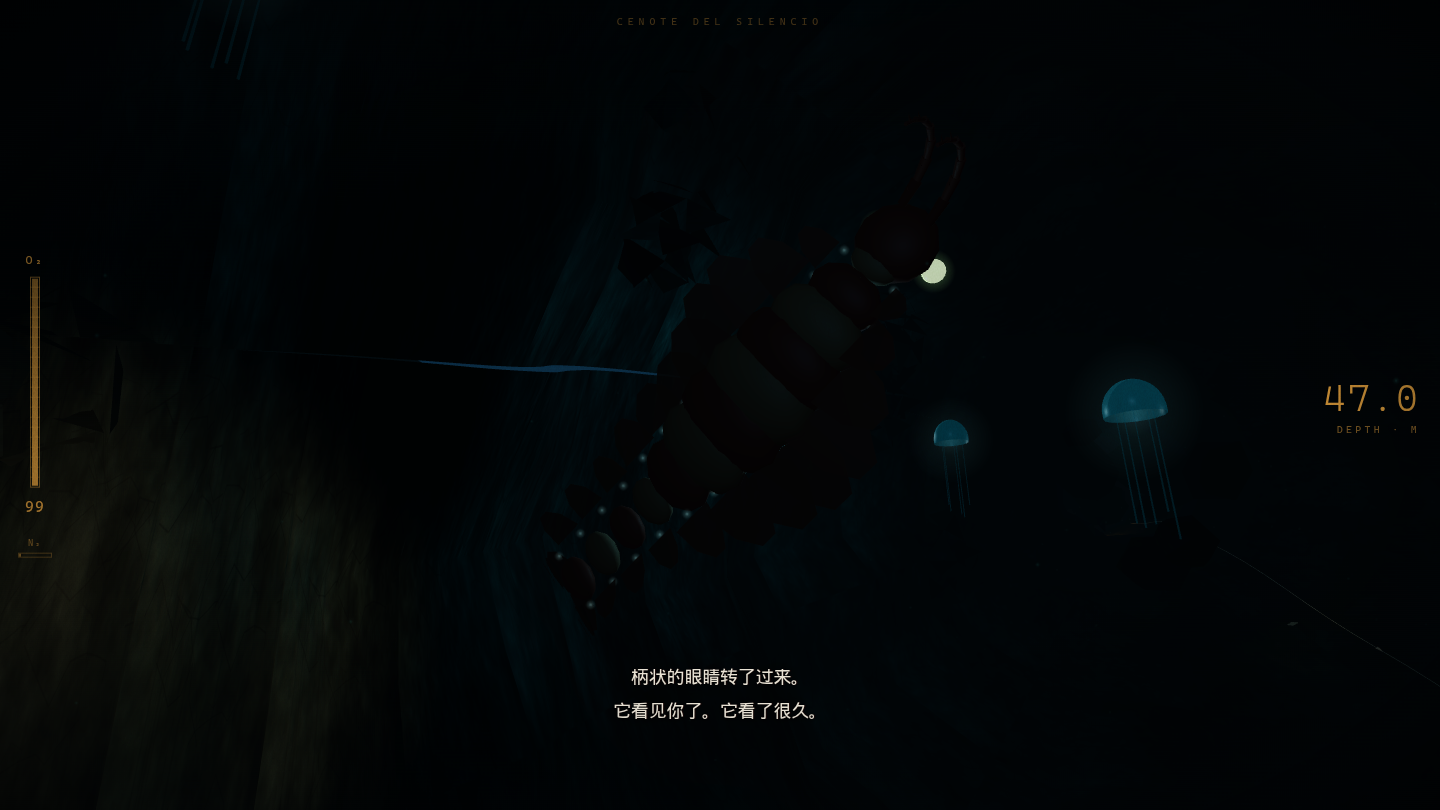
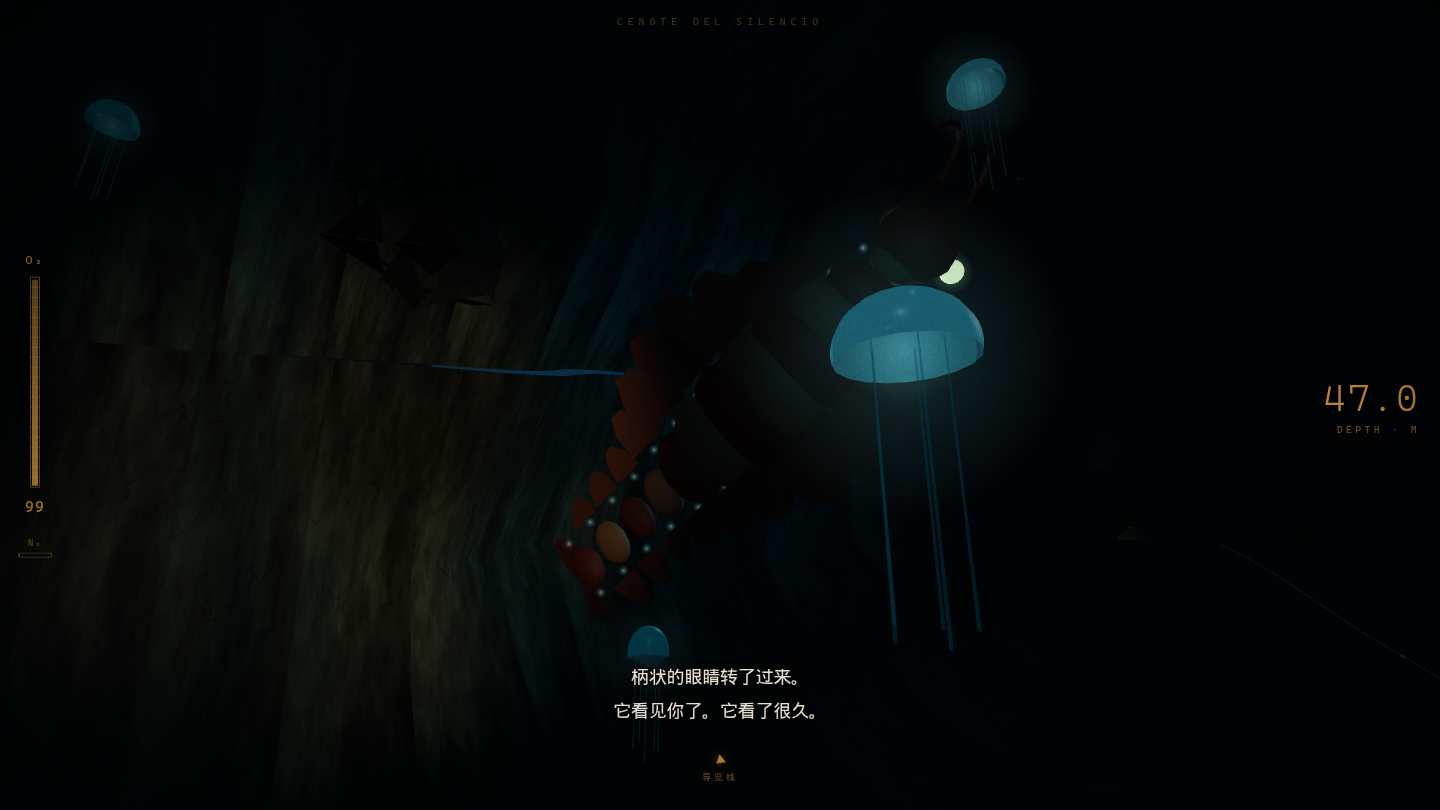
feat(LoopE): 剧情事件——搅浑水silt-out(白雾22s+罗盘提示)、错绳支线死结写字板、两块矛盾「第1天」写字板、气瓶数目谜团、可疑无线电(M口误/不该知道的沉船/谁的规矩)、被用空又摆回的气瓶；剧情节点按分区重布(下潜+回程)；调试雾snap

diff --git a/src/game/Story.ts b/src/game/Story.ts
@@ -2,8 +2,15 @@ import type { Cave, CaveProp } from './Cave';
 import type * as THREE from 'three';
 
 /**
- * 叙事触发系统。文本与节奏对应 docs/GAME_DESIGN.md §2.3。
- * radio/env 按样条进度触发；slate/tank 按 3D 距离触发。
+ * 叙事触发系统（docs/GAME_DESIGN.md §6「人为搞砸」）。
+ * radio/env 按主脉进度触发（下潜与回程共用 mainT 递增）；slate/tank 按 3D 距离触发。
+ *
+ * 五条破坏线索（全程不点破凶手）：
+ * ① 搅浑水 silt-out（沉船区，能见度骤降 22s）
+ * ② 错绳：白线支线以死结收尾（S2），箭头指向洞内（throat env）
+ * ③ 矛盾写字板：两块「第 1 天」（S1 vs S6）；气瓶数目对不上（S3）
+ * ④ 可疑无线电：M 的口误（"比上次平稳多了"）、不该知道的沉船
+ * ⑤ 空气瓶被人用空又摆回原位（塌方区 T3）
  */
 
 export interface StoryContext {
@@ -13,6 +20,8 @@ export interface StoryContext {
   tank(prop: CaveProp): void;
   silenceBegins(): void;
   scare(): void;
+  /** 搅浑水：能见度骤降 seconds 秒 */
+  siltOut(seconds: number): void;
 }
 
 interface FlowNode {
@@ -21,13 +30,48 @@ interface FlowNode {
   run(ctx: StoryContext): void;
 }
 
-const SLATE_TEXTS: Record<number, string> = {
-  1: '第 1 天 —— 主线布设完成。\n洞比测绘图上深。水像玻璃。\n美极了。\n—— L.C.',
-  2: '这条白线不是我的。\n我的线是蓝的。\n箭头全部指向里面。\n谁会把箭头指向里面？',
-  3: '灯在学我。\n我关灯，它也关。\n我数到三再开——\n它已经开了。',
-  4: '别数气泡。\n数到第七个，它就到了。',
-  5: '别相信光。它在学我们。\n\n—— 这一行的字迹，你认得。\n是你的。',
-};
+/** 写字板文本（含互相矛盾对：S1↔S6） */
+const SLATES: { key: string; text: string }[] = [
+  {
+    key: 's1-day1',
+    text: '第 1 天 —— 主线布设完成。\n洞比测绘图上深。水像玻璃。\n美极了。\n—— L.C.',
+  },
+  {
+    key: 's2-fakeline',
+    text: '这条白线不是我的线。我的线是蓝的。\n白线在这里打了死结。\n打结的人知道会有人跟着它。\n回头。现在。',
+  },
+  {
+    key: 's3-tanks',
+    text: '第 3 天 —— 备用瓶少了一支。我数了三遍。\nM 说是我记错了。\nM 是谁？\n我是一个人下来的。',
+  },
+  {
+    key: 's4-bubbles',
+    text: '别数气泡。\n数到第七个，它就到了。',
+  },
+  {
+    key: 's5-fins',
+    text: '淤泥起来的那次，我看见了鳍。\n不是鲨鱼。鳍是一整排的，像桨。\n它绕着我游了一圈。\n它在看我的灯。',
+  },
+  {
+    key: 's6-day1b',
+    text: '第 1 天？——塌方后捡到前面那块板。\n那不是我的字。\n我今天才是第 1 天。\n谁在替我写日志？',
+  },
+  {
+    key: 's7-altar',
+    text: '祭坛上的玉器被人重新摆过。\n照片里它们朝东，朝着日出。\n现在全部朝下。\n朝着井。',
+  },
+];
+
+/** 气瓶元数据：empty 的那支是被人用空又摆回去的 */
+const TANKS: { empty: boolean; text: string }[] = [
+  { empty: false, text: '备用气瓶，压力表满格。标签上手写着缩写：E.V.\n——你没有在这里放过气瓶。' },
+  { empty: false, text: '第二只备用瓶。它是崭新的。\n它在等你。' },
+  {
+    empty: true,
+    text: '压力表：0。\n有人用完了它，又把它摆回原位。\n摆得整整齐齐，标签朝外。',
+  },
+  { empty: false, text: '荧光标旁的最后一瓶。\n有人希望你能回去。\n或者，希望「回去的人」是谁都行。' },
+];
 
 export class Story {
   private nodes: FlowNode[] = [];
@@ -35,46 +79,74 @@ export class Story {
   private tankProps: CaveProp[] = [];
 
   constructor(cave: Cave) {
-    // v2 闭环地图：去程占 t 0..abyssMid，旧触发点按比例重映射（Loop E 将全面重写）
-    const ab = cave.zoneRange('abyss');
-    const scale = ((ab.t0 + ab.t1) / 2) / 0.95;
-    const N = (t0: number, run: (ctx: StoryContext) => void): FlowNode => ({ t: t0 * scale, fired: false, run });
+    /** 区内比例 → 主脉 t */
+    const zt = (zone: Parameters<Cave['zoneRange']>[0], frac: number): number => {
+      const { t0, t1 } = cave.zoneRange(zone);
+      return t0 + (t1 - t0) * frac;
+    };
+    const N = (t: number, run: (ctx: StoryContext) => void): FlowNode => ({ t, fired: false, run });
+
     this.nodes = [
-      N(0.028, (c) =>
+      // ---------- 下潜 ----------
+      N(zt('shaft', 0.3), (c) =>
         c.radio('通话检查。收到请敲两下面镜。……很好。\n水温 24 度，你有 40 分钟。\n找到她——或者找到答案。', 7),
       ),
-      N(0.065, (c) => c.env('头顶的光柱在收窄。\n回头看了一眼——入口比记忆里远。', 5.5)),
-      N(0.18, (c) => c.radio('你的呼吸听起来不错，埃利亚斯。比上次平稳多了。\n（你从没和 M 潜过水。）', 6.5)),
-      N(0.34, (c) => c.env('导览线的箭头指向洞的深处。\n箭头，永远应该指向出口。', 6)),
-      N(0.56, (c) => {
+      N(zt('shaft', 0.85), (c) => c.env('头顶的光柱在收窄。\n回头看了一眼——入口比记忆里远。', 5.5)),
+      N(zt('gallery', 0.4), (c) =>
+        c.radio('你的呼吸听起来不错，埃利亚斯。比上次平稳多了。\n（你从没和 M 潜过水。）', 6.5),
+      ),
+      N(zt('throat', 0.45), (c) => c.env('导览线的箭头指向洞的深处。\n箭头，永远应该指向出口。', 6)),
+      N(zt('hall', 0.25), (c) => c.env('手电的光第一次够不到对面的墙。\n这里大得不像洞——像被谁挖空的教堂。', 6.5)),
+      N(zt('halo', 0.45), (c) =>
+        c.env('卤水层。一面悬在半空的镜子。\n镜子下面的世界是黄的，慢的，旧的。', 6.5),
+      ),
+      N(zt('wreck', 0.25), (c) =>
+        c.radio('前面有条船。别碰货舱，那不是这次的任务。\n（你没告诉过 M 有沉船。）', 6.5),
+      ),
+      // ① 搅浑水：沉船尾段，白雾吞掉一切
+      N(zt('wreck', 0.72), (c) => {
+        c.siltOut(22);
+        c.env('前方的水炸开成一团白雾。\n淤泥不会自己起来。\n刚刚，有什么东西扫过了船底。', 7);
+      }),
+      N(zt('collapse', 0.12), (c) =>
+        c.env('主线在这里断了。\n断口平整——是刀切的，不是磨断的。', 6.5),
+      ),
+      N(zt('collapse', 0.42), (c) => c.scare()),
+      N(zt('collapse', 0.8), (c) => {
         c.silenceBegins();
         c.env('无线电里只剩呼吸声。\n节奏和你的完全一致——只是慢半秒。', 7);
       }),
-      N(0.632, (c) => c.scare()),
-      N(0.88, (c) => c.env('水变暖了。\n洞潜守则里，井底不该是暖的。', 5.5)),
-      N(0.925, (c) => c.radio('你已经到了。\n她一直都到了。', 6)),
+      N(zt('abyss', 0.18), (c) => c.env('水变暖了。\n洞潜守则里，井底不该是暖的。', 5.5)),
+      N(zt('abyss', 0.38), (c) => c.radio('你已经到了。\n她一直都到了。', 6)),
+      // ---------- 回程（mainT 继续递增） ----------
+      N(zt('chimney', 0.35), (c) =>
+        c.env('荧光标钉进岩缝的手法很专业。\n有人维护着它们。最近。', 6),
+      ),
+      N(zt('chimney', 0.85), (c) =>
+        c.radio('快到了。上来之前，把写字板都留在水里。\n那是规矩。\n（谁的规矩？）', 7),
+      ),
     ];
 
-    // 写字板（靠近触发全屏）
-    const slateDefs: [number, number, number][] = [
-      // [t, angle, textId]
-      [0.1, -0.6, 1],
-      [0.26, 2.4, 2],
-      [0.5, -2.2, 3],
-      [0.7, 0.7, 4],
-      [0.84, -1.1, 5],
-    ];
-    for (const [t, ang, id] of slateDefs) {
-      const prop = cave.addProp('slate', t * scale, ang);
-      this.slateProps.push({ prop, text: SLATE_TEXTS[id] });
-    }
+    // ---------- 写字板布点（越深越密，支线各藏一块） ----------
+    const slateAt = (i: number, zone: Parameters<Cave['zoneRange']>[0] | null, frac: number, ang: number, pathId = 0): void => {
+      const t = zone === null ? frac : zt(zone, frac);
+      const prop = cave.addProp('slate', t, ang, pathId);
+      this.slateProps.push({ prop, text: SLATES[i].text });
+    };
+    slateAt(0, 'gallery', 0.62, -0.6); // S1 第 1 天（L.C.）
+    slateAt(1, null, 0.86, 0.9, 2); //    S2 错绳死结（支线 2 末端）
+    slateAt(2, 'hall', 0.6, 2.4); //      S3 气瓶数目 & "M 是谁"
+    slateAt(3, 'halo', 0.7, -2.2); //     S4 别数气泡
+    slateAt(4, 'wreck', 0.86, 0.7); //    S5 一排的鳍（silt-out 之后）
+    slateAt(5, 'collapse', 0.55, -1.1); //S6 另一块「第 1 天」
+    slateAt(6, null, 0.8, -0.9, 1); //    S7 祭坛玉器（支线 1）
 
-    // 备用气瓶
+    // ---------- 备用气瓶（T3 是空的） ----------
     this.tankProps.push(
-      cave.addProp('tank', 0.3 * scale, -2.6),
-      cave.addProp('tank', 0.58 * scale, 2.1),
-      cave.addProp('tank', 0.8 * scale, -1.2),
-      cave.addProp('tank', 0.93 * scale, 1.8),
+      cave.addProp('tank', zt('gallery', 0.85), -2.6),
+      cave.addProp('tank', zt('hall', 0.78), 2.1),
+      cave.addProp('tank', zt('collapse', 0.62), -1.2),
+      cave.addProp('tank', zt('chimney', 0.3), 1.8),
     );
   }
 
@@ -82,11 +154,16 @@ export class Story {
     return this.slateProps.filter((s) => s.prop.taken).length;
   }
 
-  /** 拾取时的叙事文案 */
-  static tankText(index: number): string {
-    return index === 0
-      ? '备用气瓶。标签上手写着缩写：E.V.\n——你没有在这里放过气瓶。'
-      : '第二只备用瓶，压力表满格。\n它是崭新的。它在等你。';
+  get slateTotal(): number {
+    return this.slateProps.length;
+  }
+
+  tankIndex(prop: CaveProp): number {
+    return this.tankProps.indexOf(prop);
+  }
+
+  static tankMeta(index: number): { empty: boolean; text: string } {
+    return TANKS[Math.max(0, Math.min(TANKS.length - 1, index))];
   }
 
   update(playerT: number, playerPos: THREE.Vector3, ctx: StoryContext): void {
@@ -110,9 +187,5 @@ export class Story {
         ctx.tank(t);
       }
     }
-  }
-
-  tankIndex(prop: CaveProp): number {
-    return this.tankProps.indexOf(prop);
   }
 }

diff --git a/src/game/Game.ts b/src/game/Game.ts
@@ -86,6 +86,8 @@ export class Game {
   private ascentWarnAt = -99;
   private o2Warn50 = false;
   private o2Warn25 = false;
+  private siltUntil = -1; // 搅浑水结束时刻
+  private envSnap = false; // 调试跳转后雾立即归位
 
   constructor(canvas: HTMLCanvasElement) {
     this.renderer = new THREE.WebGLRenderer({
@@ -174,6 +176,10 @@ export class Game {
         this.player.yaw = Math.atan2(-d.x, -d.z);
       },
       boat: () => this.water.boatPos.toArray(),
+      silt: (seconds: number) => {
+        this.siltUntil = this.time + seconds;
+        if (seconds <= 0) this.envSnap = true;
+      },
       state: () => ({
         state: this.state,
         phase: this.phase,
@@ -265,15 +271,27 @@ export class Game {
       void this.hud.showSlate(text);
     },
     tank: (prop: CaveProp) => {
-      const idx = this.story.tankIndex(prop);
-      this.oxygen = Math.min(100, this.oxygen + TANK_REFILL);
-      this.audio.tankPickup();
-      this.hud.subtitle(Story.tankText(idx), '', 6.5);
+      const meta = Story.tankMeta(this.story.tankIndex(prop));
+      if (!meta.empty) {
+        this.oxygen = Math.min(100, this.oxygen + TANK_REFILL);
+        this.audio.tankPickup();
+      } else {
+        // 空瓶：只有金属叩击，没有换气阀的嘶声——那声空响本身就是线索
+        this.audio.radioBlip(0.4);
+        this.tension = Math.max(this.tension, 0.5);
+      }
+      this.hud.subtitle(meta.text, '', 6.5);
     },
     silenceBegins: () => this.audio.duckBed(0.04, 9),
     scare: () => {
       this.scare.trigger(this.cave, this.player, this.audio);
       this.scareAt = this.time;
+    },
+    siltOut: (seconds: number) => {
+      this.siltUntil = this.time + seconds;
+      this.tension = Math.max(this.tension, 0.6);
+      this.audio.duckBed(0.4, 3);
+      this.audio.ancientCall(0.3); // 扫过船底的"什么东西"——远处的低频（伏笔）
     },
   };
 
@@ -531,6 +549,7 @@ export class Game {
       const { tan } = this.cave.frameAt(0, p.mainT);
       dir = tan;
       offline = false;
+      if (this.time < this.siltUntil) label = '白雾 · 握住线';
     }
     if (dir.lengthSq() < 1e-6) {
       this.hud.setGuide(null);
@@ -636,13 +655,13 @@ export class Game {
         this.hud.showEnding(
           'bends',
           '你趴在船板上，关节里有细小的针。\n咳出的泡沫在晨光里是粉红色的。\n你把深渊带上来了一点。',
-          `最大深度 -${this.maxDepth.toFixed(1)}M · 用时 ${timeStr} 分钟 · 写字板 ${slates}/7\n结局：血里的针（跳过了减压停留）`,
+          `最大深度 -${this.maxDepth.toFixed(1)}M · 用时 ${timeStr} 分钟 · 写字板 ${slates}/${this.story.slateTotal}\n结局：血里的针（跳过了减压停留）`,
         );
       } else {
         this.hud.showEnding(
           'dawn',
           '太阳正从丛林线上升起来。\n你看见过它照不到的地方，\n以及在那里等了五亿年的东西。',
-          `最大深度 -${this.maxDepth.toFixed(1)}M · 用时 ${timeStr} 分钟 · 写字板 ${slates}/7\n结局：破晓`,
+          `最大深度 -${this.maxDepth.toFixed(1)}M · 用时 ${timeStr} 分钟 · 写字板 ${slates}/${this.story.slateTotal}\n结局：破晓`,
         );
       }
       document.exitPointerLock?.();
@@ -670,6 +689,14 @@ export class Game {
       den = 0.085;
       exp = 0.82;
     }
+    // 搅浑水 silt-out：白雾吞掉能见度，尾段 6s 缓慢散开
+    if (this.time < this.siltUntil) {
+      const left = this.siltUntil - this.time;
+      const k2 = Math.min(1, left / 6);
+      fogColor.lerp(new THREE.Color(0x4a4438), 0.85 * k2);
+      den = den + (0.24 - den) * k2;
+      exp = exp - 0.1 * k2;
+    }
     // 水面之上：清晨空气
     if (this.phase === 'surface' || this.phase === 'boarding' || this.player.position.y > -0.1) {
       fogColor = new THREE.Color(0x14212a);
@@ -677,7 +704,8 @@ export class Game {
       exp = 1.05;
     }
 
-    const k = Math.min(1, dt * 1.4);
+    const k = this.envSnap ? 1 : Math.min(1, dt * 1.4);
+    this.envSnap = false;
     fog.color.lerp(fogColor, k);
     fog.density += (den - fog.density) * k;
     (this.scene.background as THREE.Color).copy(fog.color).multiplyScalar(0.5);
